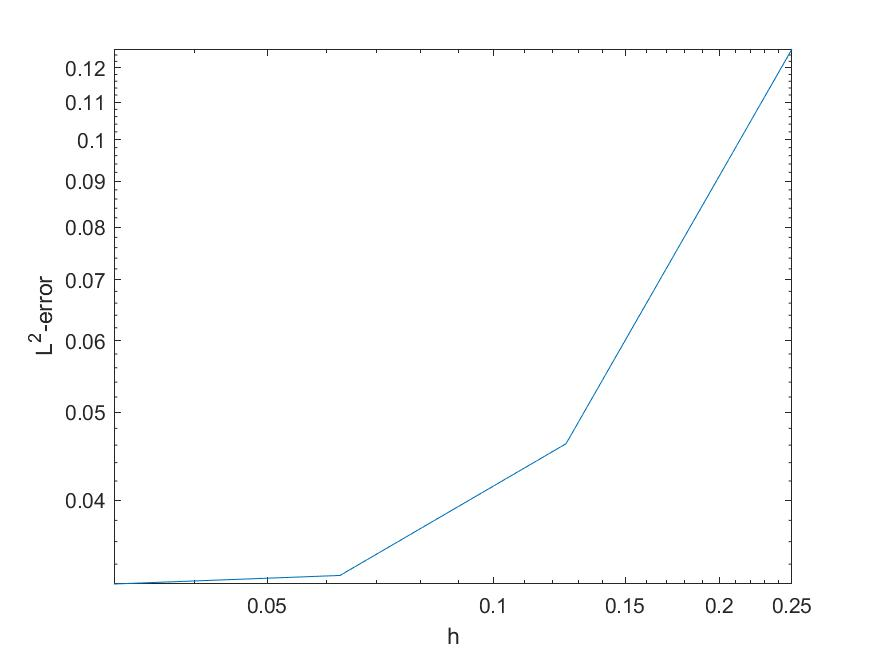
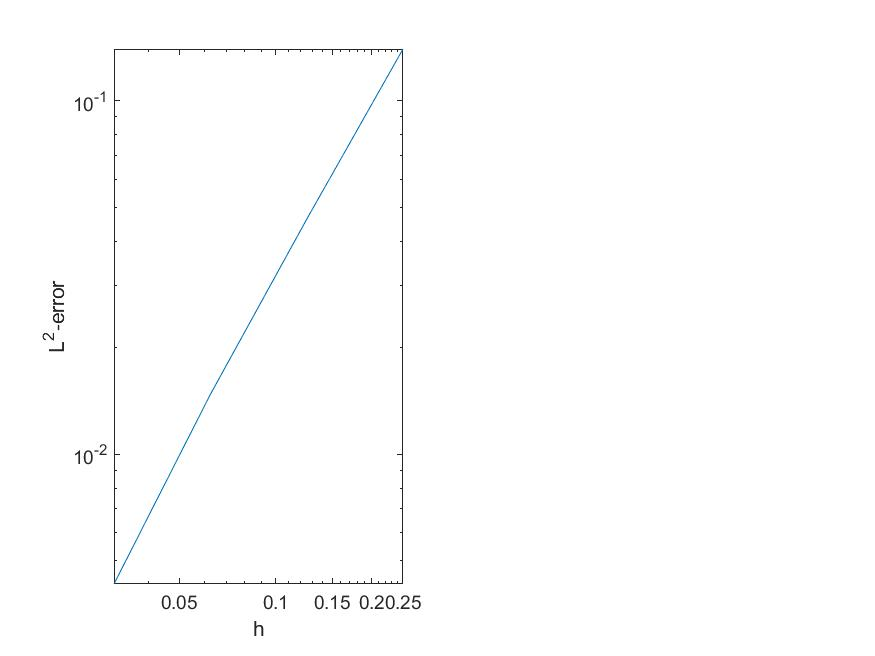
updated matlab code to output correct figures

diff --git a/FEM_Assign1/Juliens Code/ANM_ass1_script3_latest.m b/FEM_Assign1/Juliens Code/ANM_ass1_script3_latest.m
@@ -1,0 +1,135 @@
+%% Problem 1.1
+%
+% %hmax = 1/8
+% h = 1/8;
+% g = @circleg;
+% [p,e,t] = initmesh(g, 'hmax', h);
+% [ U, M ] = ANM_ass1_FEM_unstable( p, e, t );
+%
+%
+% for i=1:size(U,2)
+%     pdesurf(p,t,U(:,i));
+%     xlim([-1,1])
+%     ylim([-1,1])
+%     zlim([-0.2,1])
+%     drawnow;
+% end %for, i
+
+% %hmax = 1/16
+% h = 1/16;
+% g = @circleg;
+% [p,e,t] = initmesh(g, 'hmax', h);
+% [ U, M ] = ANM_ass1_FEM_unstable( p, e, t );
+%
+% for i=1:size(U,2)
+%     pdesurf(p,t,U(:,i));
+%     xlim([-1,1])
+%     ylim([-1,1])
+%     zlim([-0.2,1])
+%     drawnow;
+% end %for, i
+
+%% Problem 1.2
+%
+% h = [1/4,1/8,1/16,1/32];
+%
+% L2E = zeros(length(h), 1);
+%
+% for i=1:length(h)
+%     %mesh
+%     g = @circleg;
+%     [p,e,t] = initmesh(g, 'hmax', h(i));
+%     [ U, M ] = ANM_ass1_FEM_unstable( p, e, t );
+%     e = U(:,1)-U(:,end);
+%     L2E(i) = sqrt(e'*M*e);
+% end %for, hmax
+%
+% ls = polyfit(h', L2E, 2);
+% x = linspace(0,1/4,26);
+% y = zeros(1, 26);
+% for i=1:length(x)
+%     y(i) = ls(1)*x(i)^2+ls(2)*x(i)+ls(3);
+% end %i
+% size(x)
+% size(y)
+% subplot(1,2,1)
+% plot(h, L2E, 'r', 'linewidth', 2)
+% hold on
+% loglog(h, h.^2, 'b', 'linewidth', 2)
+% legend('Error function', 'h_{max} versus h_{max}^{\alpha}')
+% xlabel('h')
+% ylabel('L^2-error')
+% subplot(1,2,2)
+% plot(h, L2E, 'r', x, y, 'b', 'linewidth', 2)
+% legend('Error function', 'Quadratic interpol.')
+% xlabel('h')
+% ylabel('L^2-error')
+% print('ANM_Ass1_data1_convergence','-djpeg')
+
+%% Problem 1.3
+% %hmax = 1/8
+% h = 1/8;
+% g = @circleg;
+% [p,e,t] = initmesh(g, 'hmax', h);
+% [ U, M ] = ANM_ass1_FEM_unstable( p, e, t );
+%
+%
+% for i=1:size(U,2)
+%     pdesurf(p,t,U(:,i));
+%     drawnow;
+% end %for, i
+%
+% %hmax = 1/16
+% h = 1/16;
+% g = @circleg;
+% [p,e,t] = initmesh(g, 'hmax', h);
+% [ U, M ] = ANM_ass1_FEM_unstable( p, e, t );
+%
+% for i=1:size(U,2)
+%     pdesurf(p,t,U(:,i));
+%     xlim([-1,1])
+%     ylim([-1,1])
+%     zlim([-0.5,1.5])
+%     drawnow;
+% end %for, i
+
+
+%
+%
+% h = [1/4,1/8,1/16,1/32];
+%
+% L2E = zeros(length(h), 1);
+%
+% for i=1:length(h)
+%     %mesh
+%     g = @circleg;
+%     [p,e,t] = initmesh(g, 'hmax', h(i));
+%     [ U, M ] = ANM_ass1_FEM_unstable( p, e, t );
+%     e = U(:,1)-U(:,end);
+%     L2E(i) = sqrt(e'*M*e);
+% end %for, hmax
+% L2E
+% ls = polyfit(h', L2E, 1);
+% x = linspace(0,1/4,26);
+% y = zeros(1, 26);
+% for i=1:length(x)
+%     y(i) = ls(1)*x(i)+ls(2);%*x(i)+ls(3);
+% end %i
+%
+% subplot(1,2,1)
+% plot(h, L2E, 'r', 'linewidth', 2)
+% hold on
+% loglog(h, h.^1, 'b', 'linewidth', 2)
+% legend('Error function', 'h_{max} versus h_{max}^{\alpha}')
+% xlabel('h')
+% ylabel('L^2-error')
+% subplot(1,2,2)
+% plot(h, L2E, 'r', x, y, 'b', 'linewidth', 2)
+% legend('Error function', 'Linear interpol.')
+% xlabel('h')
+% ylabel('L^2-error')
+% print('ANM_Ass1_data2_convergence','-djpeg')
+
+
+
+

diff --git a/FEM_Assign1/Code/RunPart1.m b/FEM_Assign1/Code/RunPart1.m
@@ -1,7 +1,7 @@
 Problem11();
 Problem12();
 Problem13();
-%%
+close all;
 
 function Problem11()
     h = [1/8, 1/16];
@@ -31,17 +31,21 @@ function Problem12()
     
     % Plot h vs L2Error
     figure;
+    subplot(1,2,1)
     loglog(h, L2Errors);
     xlabel('h')
     ylabel('L^2-error')
-    print('../Plots/problem_1_2_errors','-djpeg')
-
-    % Plot parabola    
+    % ... plot h_max vs h_max^2 on the same plot
+    hold on
+    loglog(h, h.^2, 'b', 'linewidth', 2)
+    legend('Error function', 'h_{max} versus h_{max}^{2}')
+    xlabel('h')
+    ylabel('L^2-error')
+    % ... plot parabola    
     coeffs = polyfit(h, L2Errors, 2);
     x = linspace(0,1/4,26);
     y = coeffs(1)*x.^2 + coeffs(2)*x + coeffs(3);
-
-    figure;
+    subplot(1,2,2)
     plot(h, L2Errors, 'r', x, y, 'b', 'linewidth', 2)
     legend('Error function', 'Quadratic interpolation.')
     xlabel('h')
@@ -78,6 +82,12 @@ function Problem13()
     loglog(h, L2Errors);
     xlabel('h')
     ylabel('L^2-error')
+    % ... plot h_max vs h_max^2 on the same plot
+    hold on
+    loglog(h, h.^1, 'b', 'linewidth', 2)
+    legend('Error function', 'h_{max} versus h_{max}^{1}')
+    xlabel('h')
+    ylabel('L^2-error')    
     print('../Plots/problem_1_3_errors','-djpeg')
 end
 
@@ -88,6 +98,7 @@ function [U, M, p, t] = RunSimulationGFEM(meshSize, InitialData)
     fPrimeMax = 2*pi*0.5; % 2*pi*[-y, x] over a circle w/ r=0.5
     timeStep = CFL*meshSize / fPrimeMax;
     numIters = ceil(endTime/timeStep);
+    timeStep = endTime / numIters;
 
     geometry = @circleg;
     [p,e,t] = initmesh(geometry, 'hmax', meshSize);

diff --git a/FEM_Assign1/Code/MakeAnimation.m b/FEM_Assign1/Code/MakeAnimation.m
@@ -4,6 +4,9 @@ function MakeAnimation(p, t, U, fileName, frameTime)
     for frameIdx = 1:size(U, 2)
         % Draw plot
         pdesurf(p, t, U(:,frameIdx))
+        xlim([-1,1]);
+        ylim([-1,1]);
+        zlim([-0.3,1.3]);
         drawnow
         % Capture the plot as an image
         frame = getframe(h);
